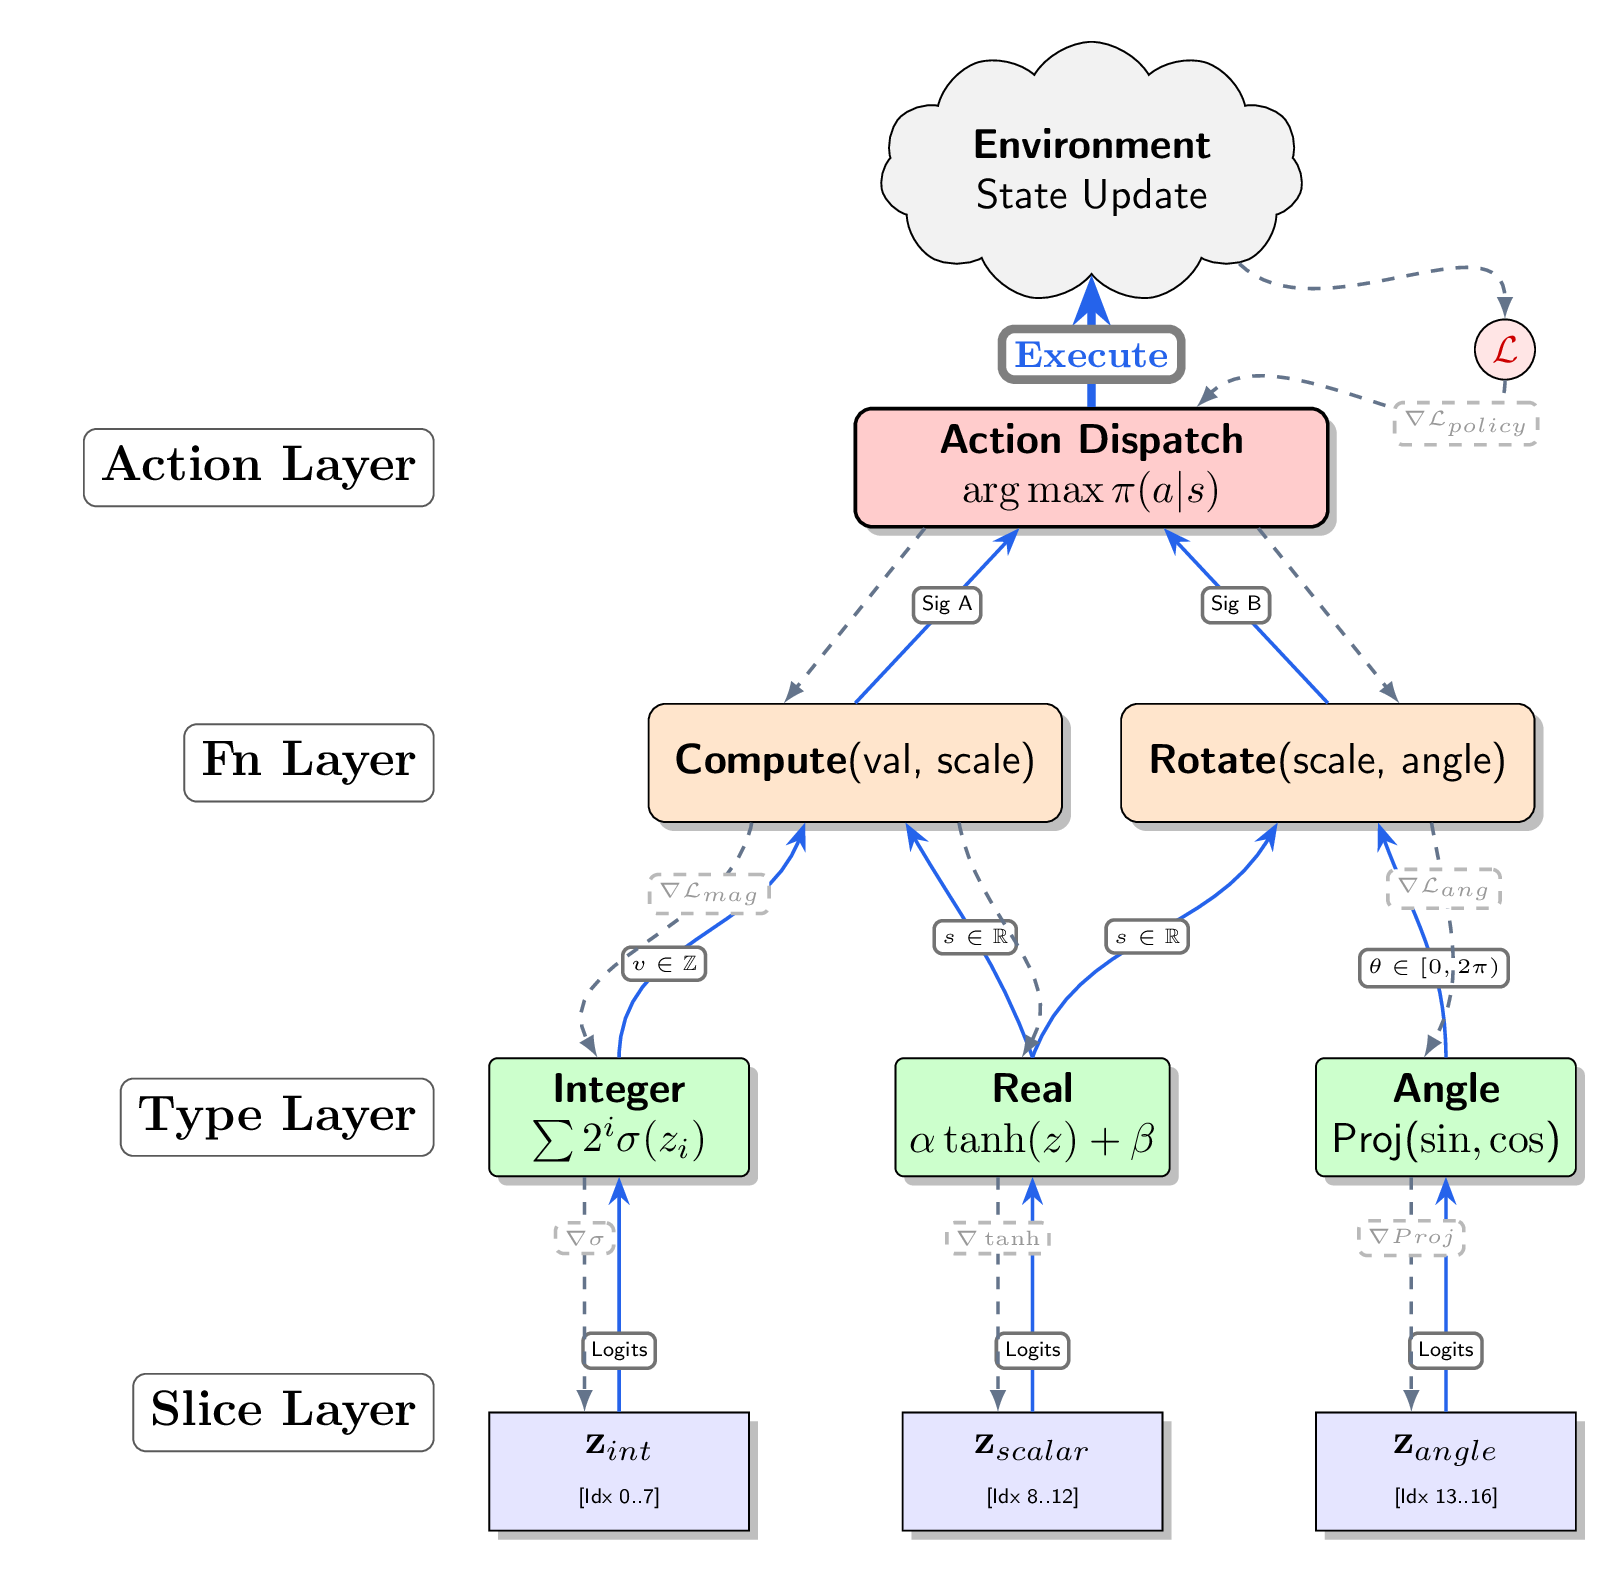
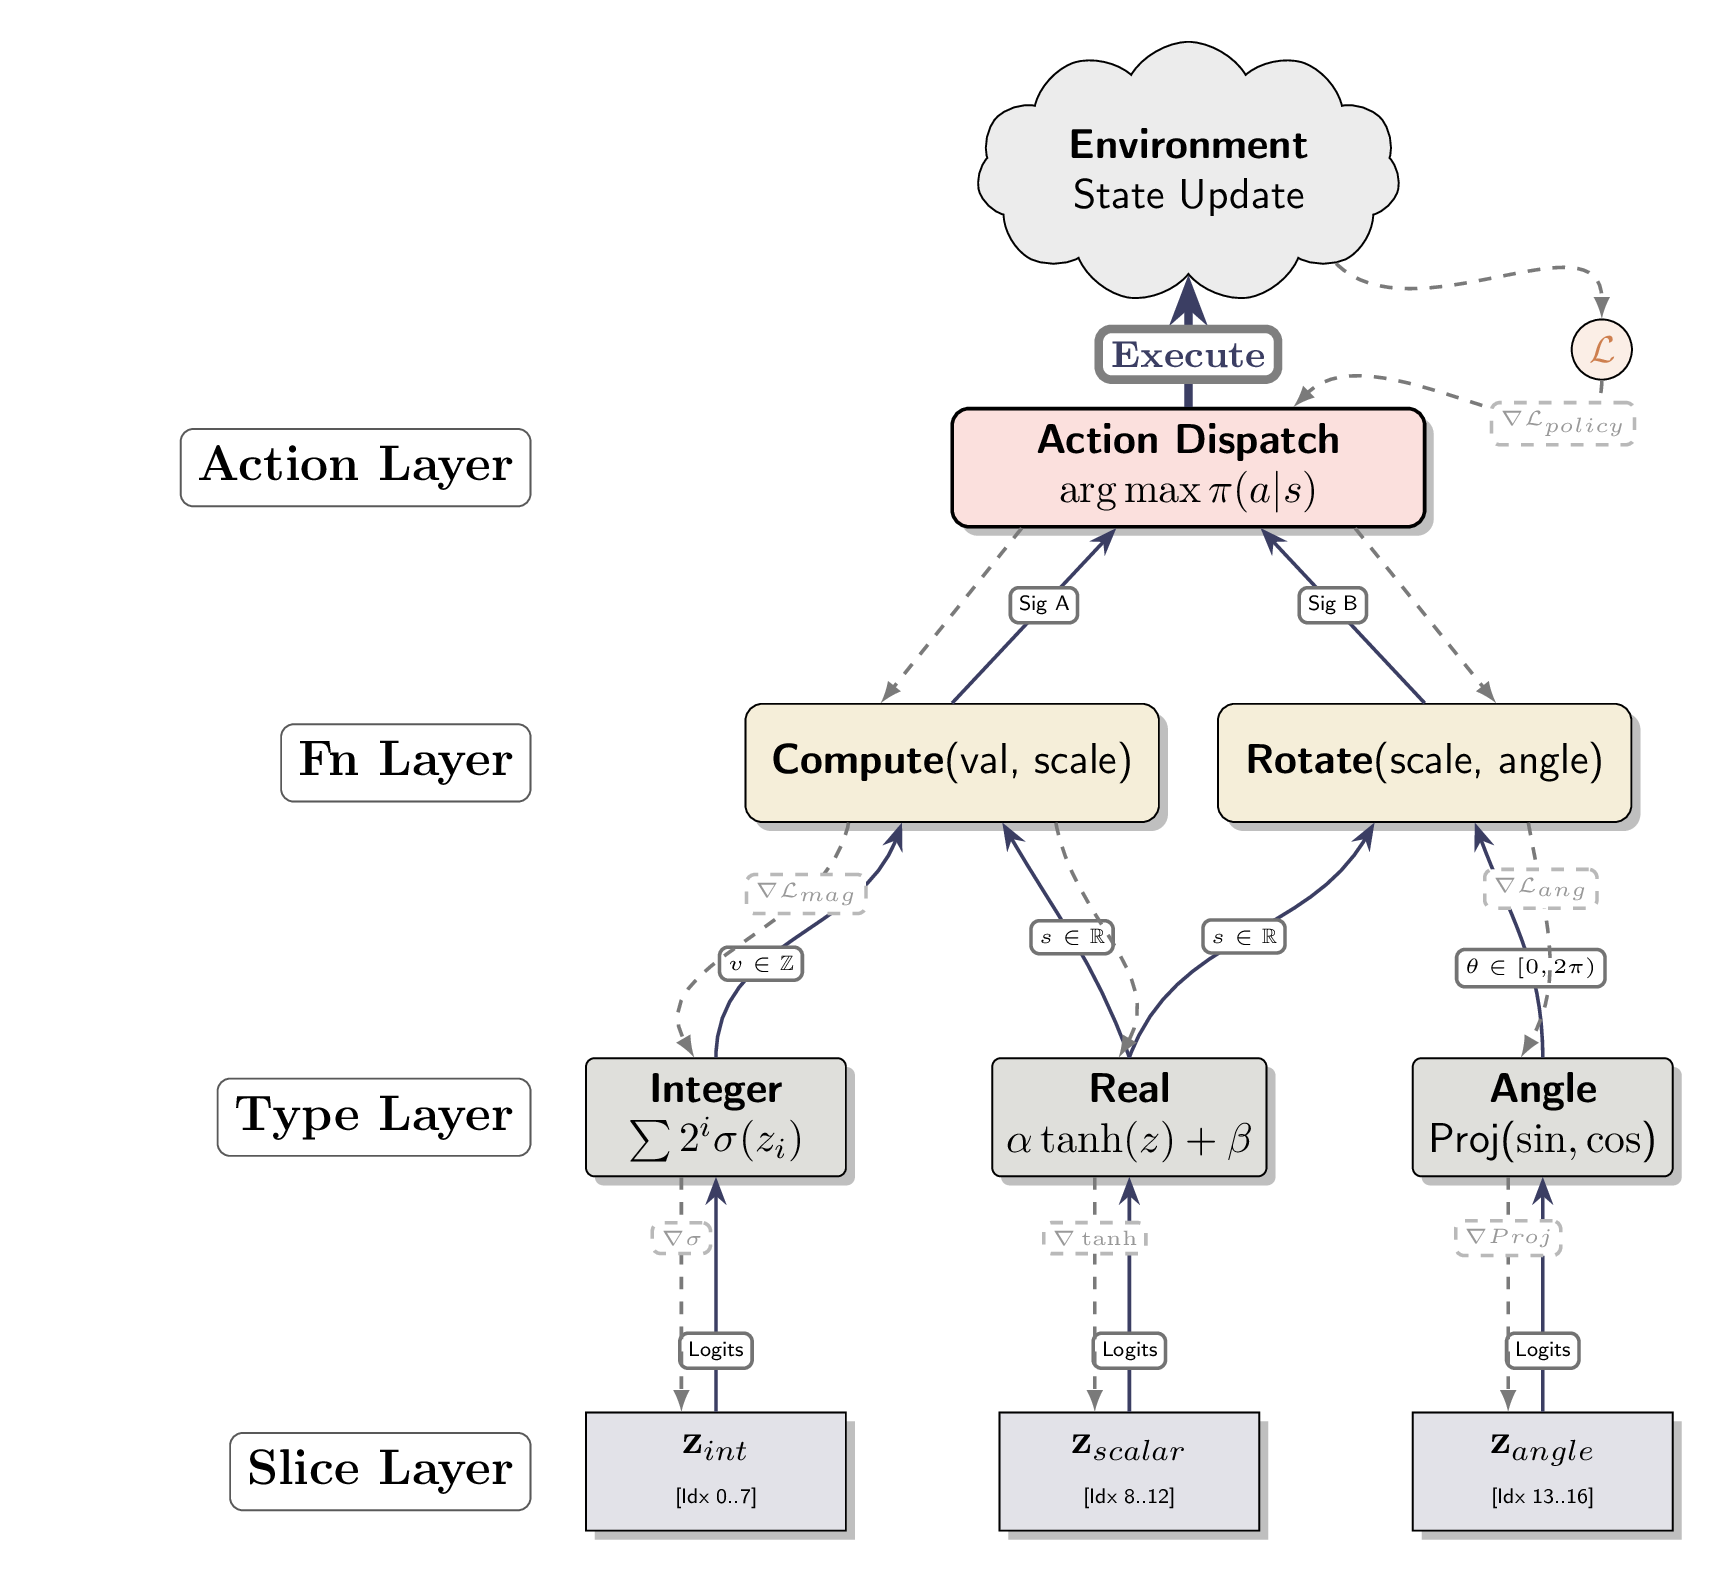
Updated viz and docs

diff --git a/papers/figures/loom_decode.tex b/papers/figures/loom_decode.tex
@@ -11,20 +11,29 @@
 
 \begin{document}
 
-% Arrow palette: saturated enough for light backgrounds, not pure black so
-% lines stay visible on typical dark UI / GitHub-dark greys behind the PNG.
-\definecolor{loomfwd}{HTML}{2563eb}
-\definecolor{loomback}{HTML}{64748b}
-\definecolor{loomfeed}{HTML}{0d9488}
+% Loom palette — mirrors --loom-* CSS custom properties in docs/_static/custom.css
+% and PALETTE in loomlib/viz/colors.py.
+\definecolor{loomblue}{HTML}{3B3E63}
+\definecolor{loomcyan}{HTML}{EB6254}
+\definecolor{loomgreen}{HTML}{5E5D4C}
+\definecolor{loomyellow}{HTML}{D9BC65}
+\definecolor{loomred}{HTML}{E58D58}
+\definecolor{loomgrey}{HTML}{3E3E3E}
+\definecolor{loomblack}{HTML}{7A7A7A}
+
+% Arrow / flow colours derived from palette
+\definecolor{loomfwd}{HTML}{3B3E63}
+\definecolor{loomback}{HTML}{7A7A7A}
+\definecolor{loomfeed}{HTML}{5E5D4C}
 
 \begin{tikzpicture}[
   font=\sffamily,
-  slice/.style={minimum height=1cm, minimum width=2.2cm, draw, fill=blue!10, align=center, drop shadow},
-  decode/.style={minimum height=1cm, minimum width=2.2cm, draw, fill=green!20, align=center, rounded corners=2pt, drop shadow},
-  fn/.style={minimum height=1cm, draw, fill=orange!20, rounded corners, align=center, drop shadow},
-  action/.style={minimum height=1cm, minimum width=4cm, draw, fill=red!20, rounded corners, thick, align=center, drop shadow},
-  env/.style={cloud, draw, cloud puffs=11, cloud puff arc=120, aspect=2, fill=gray!10, inner sep=0.2cm, align=center},
-  loss/.style={circle, draw, fill=red!10, text=red!80!black, font=\bfseries\small, inner sep=2pt},
+  slice/.style={minimum height=1cm, minimum width=2.2cm, draw, fill=loomblue!15, align=center, drop shadow},
+  decode/.style={minimum height=1cm, minimum width=2.2cm, draw, fill=loomgreen!20, align=center, rounded corners=2pt, drop shadow},
+  fn/.style={minimum height=1cm, draw, fill=loomyellow!25, rounded corners, align=center, drop shadow},
+  action/.style={minimum height=1cm, minimum width=4cm, draw, fill=loomcyan!20, rounded corners, thick, align=center, drop shadow},
+  env/.style={cloud, draw, cloud puffs=11, cloud puff arc=120, aspect=2, fill=loomgrey!10, inner sep=0.2cm, align=center},
+  loss/.style={circle, draw, fill=loomred!15, text=loomred!90!black, font=\bfseries\small, inner sep=2pt},
   arrow/.style={->, >=Stealth, thick, color=loomfwd},
   backprop/.style={->, >=latex, dashed, thick, color=loomback},
   feedback/.style={->, >=Stealth, dotted, thick, color=loomfeed},
@@ -67,7 +76,7 @@
 ]
 
 % --- 1. SliceLayer ---
-\node[layerlabel] at (-1.5, 0.5) {Slice Layer};
+\node[layerlabel] at (-1.5, 0.0) {Slice Layer};
 \node[slice] (s1) at (0, 0) {$\mathbf{z}_{int}$ \\ \tiny{[Idx 0..7]}};
 \node[slice] (s2) at (3.5, 0) {$\mathbf{z}_{scalar}$ \\ \tiny{[Idx 8..12]}};
 \node[slice] (s3) at (7, 0) {$\mathbf{z}_{angle}$ \\ \tiny{[Idx 13..16]}};

diff --git a/loomlib/viz/decode.py b/loomlib/viz/decode.py
@@ -4,7 +4,8 @@ from typing import TYPE_CHECKING, Any
 
 import torch
 
-from . import _require_matplotlib
+from . import _require_matplotlib, _transparent
+from .colors import BLUE, GREEN, CYAN
 
 if TYPE_CHECKING:
     import matplotlib.figure
@@ -69,6 +70,7 @@ def plot_decoded(
         fig, ax = plt.subplots()
         ax.text(0.5, 0.5, "No fields to plot", ha="center", va="center",
                 transform=ax.transAxes)
+        _transparent(fig)
         return fig
 
     n = len(fields)
@@ -93,6 +95,7 @@ def plot_decoded(
 
     fig.suptitle("Decoded Values", fontsize=11, y=1.02)
     fig.tight_layout()
+    _transparent(fig)
     return fig
 
 
@@ -102,7 +105,7 @@ def _plot_categorical(ax, vals: torch.Tensor, key: str, entry):
     for v in vals.flatten().long():
         if 0 <= v < n_classes:
             counts[v] += 1
-    ax.bar(range(n_classes), counts.numpy(), color="#4C72B0", edgecolor="white")
+    ax.bar(range(n_classes), counts.numpy(), color=BLUE, edgecolor="white")
     ax.set_xlabel("class")
     ax.set_ylabel("count")
     ax.set_title(key, fontsize=9)
@@ -116,7 +119,7 @@ def _plot_boolean(ax, vals: torch.Tensor, key: str):
     ax.barh(
         [0],
         [n_true],
-        color="#55A868",
+        color=GREEN,
         edgecolor="white",
         label="True",
         height=0.5,
@@ -125,7 +128,7 @@ def _plot_boolean(ax, vals: torch.Tensor, key: str):
         [0],
         [n_false],
         left=[n_true],
-        color="#C44E52",
+        color=CYAN,
         edgecolor="white",
         label="False",
         height=0.5,
@@ -140,15 +143,15 @@ def _plot_continuous(ax, vals: torch.Tensor, key: str, type_name, entry):
     vals_np = vals.float().flatten().numpy()
     x_jitter = [0] * len(vals_np)
 
-    ax.scatter(x_jitter, vals_np, alpha=0.6, s=18, color="#4C72B0",
+    ax.scatter(x_jitter, vals_np, alpha=0.6, s=18, color=BLUE,
                edgecolors="white", linewidths=0.3, zorder=3)
 
     if entry is not None and type_name == "ContinuousScalar":
         lo = entry.thunk_type._lo
         hi = entry.thunk_type._hi
-        ax.axhspan(lo, hi, alpha=0.1, color="#55A868", zorder=1)
-        ax.axhline(lo, color="#55A868", linewidth=0.8, linestyle="--", alpha=0.5)
-        ax.axhline(hi, color="#55A868", linewidth=0.8, linestyle="--", alpha=0.5)
+        ax.axhspan(lo, hi, alpha=0.1, color=GREEN, zorder=1)
+        ax.axhline(lo, color=GREEN, linewidth=0.8, linestyle="--", alpha=0.5)
+        ax.axhline(hi, color=GREEN, linewidth=0.8, linestyle="--", alpha=0.5)
 
     ax.set_xticks([])
     ax.set_title(key, fontsize=9)

diff --git a/loomlib/viz/allocation.py b/loomlib/viz/allocation.py
@@ -2,7 +2,7 @@ from __future__ import annotations
 
 from typing import TYPE_CHECKING
 
-from . import _require_matplotlib
+from . import _require_matplotlib, _transparent
 
 if TYPE_CHECKING:
     import matplotlib.figure
@@ -10,19 +10,8 @@ if TYPE_CHECKING:
     from ..slice.allocation import SliceAllocation
 
 
-_BRANCH_PALETTES = [
-    "#4C72B0",  # steel blue
-    "#DD8452",  # muted orange
-    "#55A868",  # sage green
-    "#C44E52",  # brick red
-    "#8172B3",  # muted purple
-    "#937860",  # brown
-    "#DA8BC3",  # pink
-    "#8C8C8C",  # gray
-    "#CCB974",  # olive
-    "#64B5CD",  # sky blue
-]
-_OPCODE_COLOR = "#B0B0B0"
+from .colors import PALETTE as _BRANCH_PALETTES
+from .colors import OPCODE_COLOR as _OPCODE_COLOR
 
 
 def _resolve_allocation(
@@ -136,4 +125,5 @@ def plot_allocation(
     ax.spines["right"].set_visible(False)
 
     fig.tight_layout()
+    _transparent(fig)
     return fig

diff --git a/loomlib/viz/colors.py b/loomlib/viz/colors.py
@@ -1,0 +1,31 @@
+"""Canonical Loom color palette.
+
+These hex values mirror the CSS custom-property palette defined in
+``docs/_static/custom.css`` (the ``--loom-*`` variables).  Every
+visualization module in ``loomlib.viz`` imports colors from here so
+that figures stay consistent with the documentation theme.
+"""
+
+BLUE: str = "#3B3E63"
+CYAN: str = "#EB6254"
+GREEN: str = "#5E5D4C"
+YELLOW: str = "#D9BC65"
+RED: str = "#E58D58"
+PURPLE: str = "#3B3E63"
+GREY: str = "#3E3E3E"
+BLACK: str = "#7A7A7A"
+
+PALETTE: list[str] = [BLUE, CYAN, GREEN, YELLOW, RED, GREY, BLACK]
+"""Ordered cycle used for branch / category coloring."""
+
+TYPE_COLORS: dict[str, str] = {
+    "Categorical": BLUE,
+    "ContinuousScalar": GREEN,
+    "BitInteger": YELLOW,
+    "Boolean": CYAN,
+    "Scalar": PURPLE,
+}
+DEFAULT_COLOR: str = GREY
+
+OPCODE_COLOR: str = BLACK
+PADDING_COLOR: str = "#C0C0C0"

diff --git a/loomlib/viz/loss.py b/loomlib/viz/loss.py
@@ -4,21 +4,15 @@ from typing import TYPE_CHECKING
 
 import torch
 
-from . import _require_matplotlib
+from . import _require_matplotlib, _transparent
 
 if TYPE_CHECKING:
     import matplotlib.figure
     from ..slice.allocation import SliceAllocation
 
 
-_TYPE_COLORS = {
-    "Categorical": "#4C72B0",
-    "ContinuousScalar": "#55A868",
-    "BitInteger": "#DD8452",
-    "Boolean": "#C44E52",
-    "Scalar": "#8172B3",
-}
-_DEFAULT_COLOR = "#8C8C8C"
+from .colors import TYPE_COLORS as _TYPE_COLORS
+from .colors import DEFAULT_COLOR as _DEFAULT_COLOR
 
 
 def plot_loss_breakdown(
@@ -91,4 +85,5 @@ def plot_loss_breakdown(
     ax.spines["right"].set_visible(False)
 
     fig.tight_layout()
+    _transparent(fig)
     return fig

diff --git a/loomlib/viz/batch.py b/loomlib/viz/batch.py
@@ -2,15 +2,14 @@ from __future__ import annotations
 
 from typing import TYPE_CHECKING
 
-from . import _require_matplotlib
-from .allocation import _BRANCH_PALETTES
+from . import _require_matplotlib, _transparent
+from .colors import PALETTE as _BRANCH_PALETTES
+from .colors import PADDING_COLOR as _PADDING_COLOR
 
 if TYPE_CHECKING:
     import matplotlib.figure
     from ..encoder.loom_encoder import LoomEncoder
     from ..encoder.batch import LoomBatch
-
-_PADDING_COLOR = "#E0E0E0"
 
 
 def _build_field_name_map(encoder: LoomEncoder) -> dict[int, tuple[str, str]]:
@@ -139,4 +138,5 @@ def plot_batch(
               framealpha=0.8, edgecolor="none")
 
     fig.tight_layout()
+    _transparent(fig)
     return fig

diff --git a/loomlib/viz/token_grid.py b/loomlib/viz/token_grid.py
@@ -5,7 +5,7 @@ from typing import TYPE_CHECKING
 import numpy as np
 import torch
 
-from . import _require_matplotlib
+from . import _require_matplotlib, _transparent
 
 if TYPE_CHECKING:
     import matplotlib.figure
@@ -61,7 +61,8 @@ def plot_token_grid(
     vmax = max(abs(real_vals.min()), abs(real_vals.max()), 1e-6) if real_vals.size > 0 else 1.0
 
     cmap_obj = plt.get_cmap(cmap).copy()
-    cmap_obj.set_bad(color="#E0E0E0")
+    from .colors import PADDING_COLOR
+    cmap_obj.set_bad(color=PADDING_COLOR)
 
     im = ax.imshow(
         vals,
@@ -100,4 +101,5 @@ def plot_token_grid(
 
     fig.colorbar(im, ax=ax, shrink=0.8, label="encoded value")
     fig.tight_layout()
+    _transparent(fig)
     return fig

diff --git a/loomlib/viz/__init__.py b/loomlib/viz/__init__.py
@@ -17,6 +17,13 @@ def _require_matplotlib():
         ) from None
 
 
+def _transparent(fig) -> None:
+    """Make *fig* and all its axes transparent so plots blend with any page background."""
+    fig.patch.set_alpha(0.0)
+    for ax in fig.axes:
+        ax.patch.set_alpha(0.0)
+
+
 # Decoder visualizations
 from .allocation import plot_allocation
 from .logits import plot_logits

diff --git a/loomlib/viz/embeddings.py b/loomlib/viz/embeddings.py
@@ -5,7 +5,7 @@ from typing import TYPE_CHECKING
 import numpy as np
 import torch
 
-from . import _require_matplotlib
+from . import _require_matplotlib, _transparent
 
 if TYPE_CHECKING:
     import matplotlib.figure
@@ -69,4 +69,5 @@ def plot_embedding_norms(
 
     fig.colorbar(im, ax=ax, shrink=0.8, label="L2 norm")
     fig.tight_layout()
+    _transparent(fig)
     return fig

diff --git a/loomlib/viz/logits.py b/loomlib/viz/logits.py
@@ -4,7 +4,7 @@ from typing import TYPE_CHECKING
 
 import torch
 
-from . import _require_matplotlib
+from . import _require_matplotlib, _transparent
 
 if TYPE_CHECKING:
     import matplotlib.figure
@@ -84,4 +84,5 @@ def plot_logits(
 
     fig.colorbar(im, ax=ax, shrink=0.8, label="logit value")
     fig.tight_layout()
+    _transparent(fig)
     return fig
